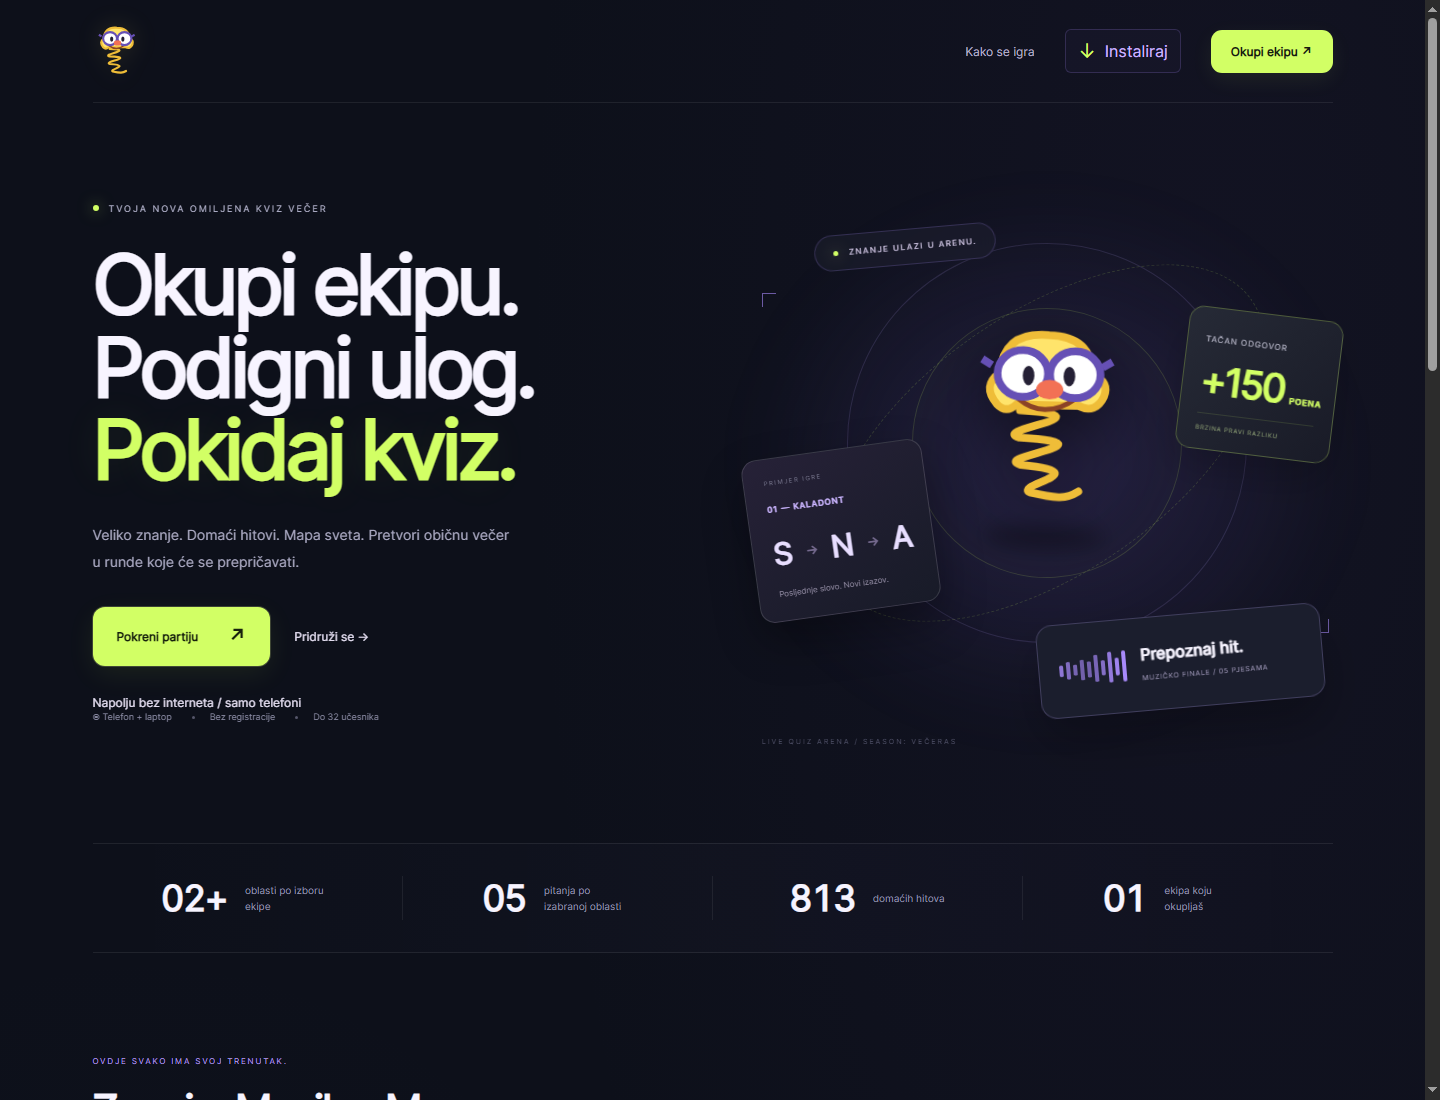
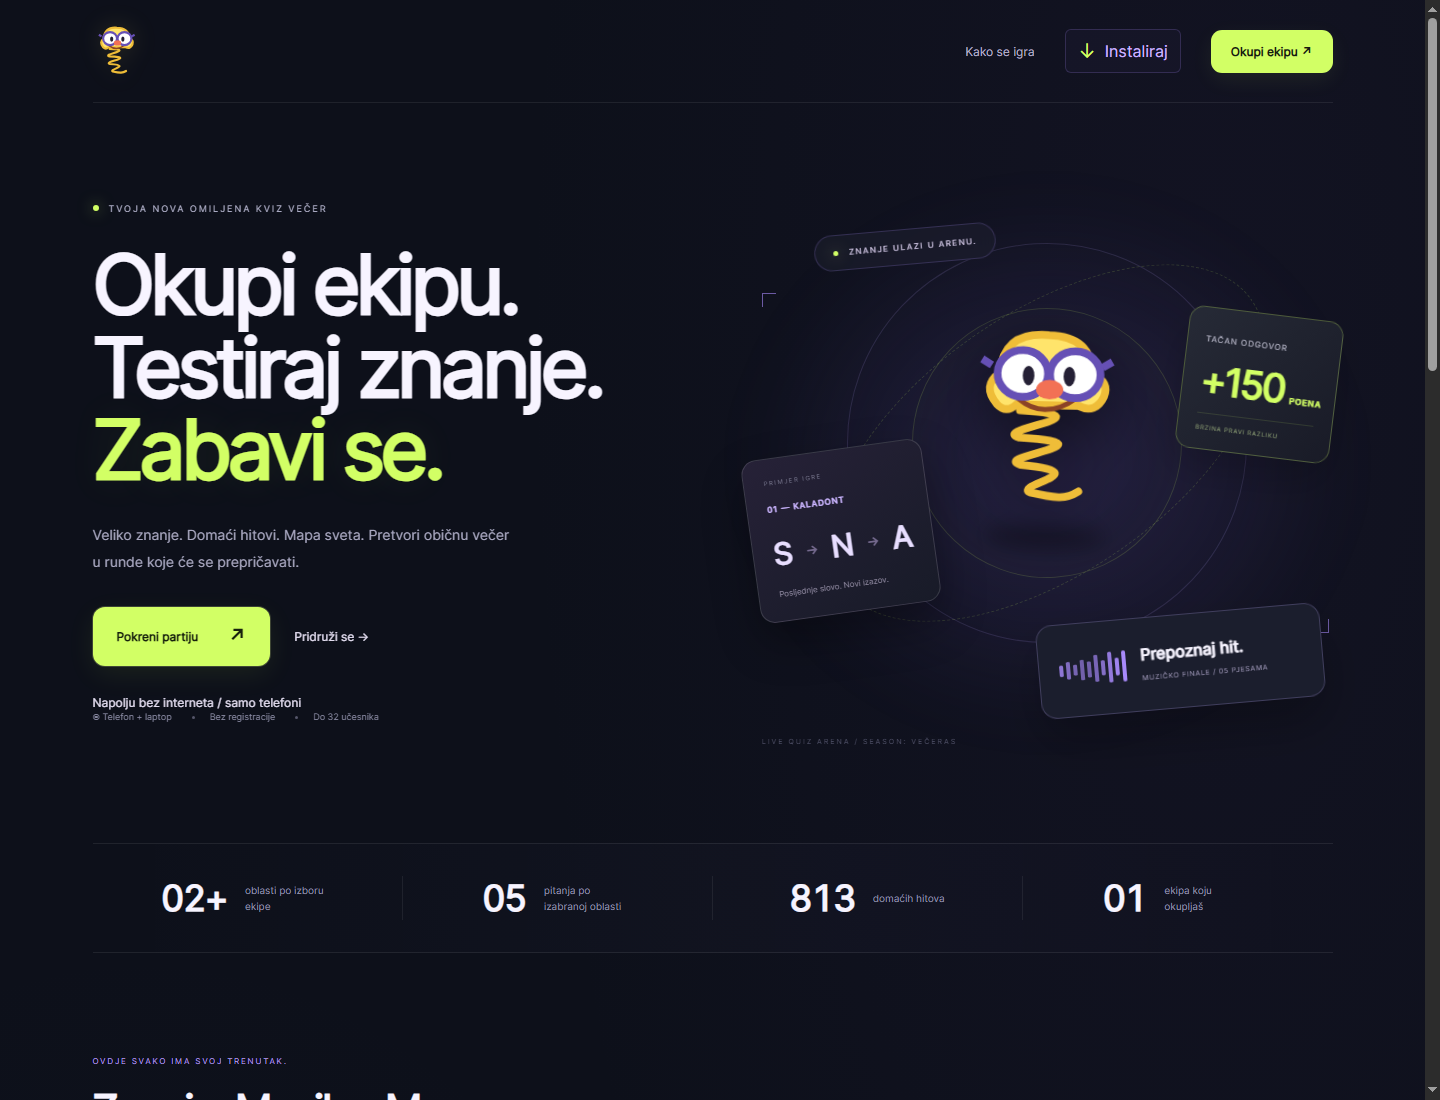
style: refresh home slogan and README screenshots

Changed region(s): [[0.0625, 0.3091, 0.4375, 0.4636]]

diff --git a/FE/public/index.html b/FE/public/index.html
@@ -11,7 +11,7 @@
     <meta name="description" content="Live Quiz Arena — multiplayer kviz za tvoju ekipu. Kaladont, izbor oblasti, mapa sveta i domaći hitovi." />
     <link rel="icon" type="image/svg+xml" href="%PUBLIC_URL%/skocko.svg" />
     <link rel="manifest" href="%PUBLIC_URL%/manifest.json" />
-    <title>Live Quiz Arena · Okupi ekipu. Pokidaj kviz.</title>
+    <title>Live Quiz Arena · Okupi ekipu. Testiraj znanje. Zabavi se.</title>
   </head>
   <body>
     <noscript>Za igranje kviza uključi JavaScript u browseru.</noscript>

diff --git a/FE/src/pages/Home.tsx b/FE/src/pages/Home.tsx
@@ -12,9 +12,9 @@ const Home: React.FC = () => (
         <h1>
           Okupi ekipu.
           <br />
-          Podigni ulog.
+          Testiraj znanje.
           <br />
-          <span>Pokidaj kviz.</span>
+          <span>Zabavi se.</span>
         </h1>
         <p>
           Veliko znanje. Domaći hitovi. Mapa sveta. Pretvori običnu večer u

diff --git a/README.md b/README.md
@@ -1,6 +1,6 @@
 # Live Quiz Arena
 
-**Okupi ekipu. Podigni ulog. Pokidaj kviz.**
+**Okupi ekipu. Testiraj znanje. Zabavi se.**
 
 Multiplayer kviz za računar i telefon: napravi sobu, podeli PIN ili QR kod i takmičite se uživo. Kaladont opšteg znanja, oblasti koje ekipa bira, mapa sveta i domaći hitovi u muzičkom finalu — bez registracije.
 
